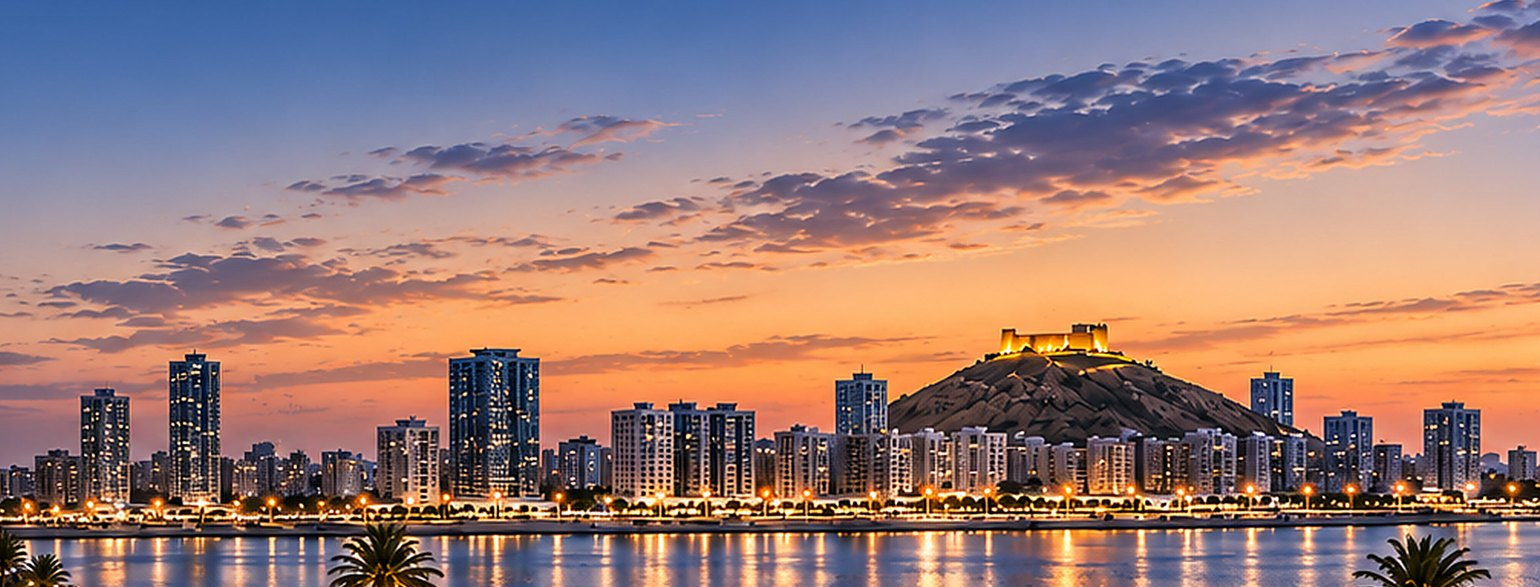
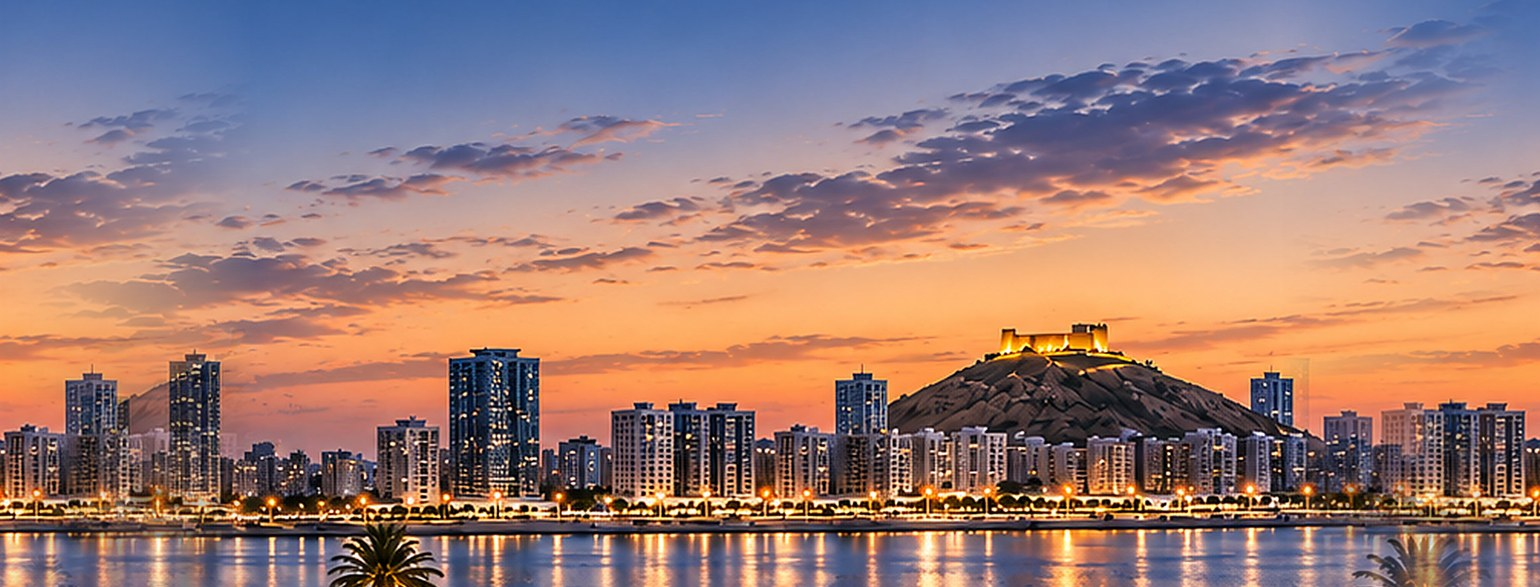
Seamless skyline, clear sliding doors, capture mode for stills and clips
Claude-Session: https://claude.ai/code/session_01M2ZtnfGCvD9i1kcrb91k9C

diff --git a/walk.js b/walk.js
@@ -206,8 +206,8 @@ function skyDome() {
   const r = rng(9); for (let k = 0; k < 4000; k++) { g.fillStyle = `rgba(255,${180 + r() * 60},${110 + r() * 70},${r() * .55})`; g.fillRect(r() * S, base + 40 + r() * (H - base - 40), 2, 2); }
   const t = new THREE.CanvasTexture(c); t.encoding = THREE.sRGBEncoding; t.wrapS = THREE.RepeatWrapping; t.anisotropy = maxAniso;
   const img = new Image(); img.onload = () => {
-    const tw = S / 6, th = tw * img.height / img.width, y0 = base + 20 - th * (520 / 587);
-    for (let i = 0; i < 6; i++) { g.save(); if (i % 2) { g.translate((i + 1) * tw, 0); g.scale(-1, 1); g.drawImage(img, 0, y0, tw, th); } else g.drawImage(img, i * tw, y0, tw, th); g.restore(); }
+    const tw = S / 4, th = tw * img.height / img.width, y0 = base + 20 - th * (520 / 587);
+    for (let i = 0; i < 4; i++) g.drawImage(img, i * tw, y0, tw, th);          // the skyline photo is made seamless left to right
     const fade = g.createLinearGradient(0, y0, 0, y0 + 70); fade.addColorStop(0, '#3f62a4'); fade.addColorStop(1, 'rgba(63,98,164,0)');
     g.fillStyle = fade; g.fillRect(0, y0, S, 70);
     const lo = g.createLinearGradient(0, y0 + th - 40, 0, y0 + th + 10); lo.addColorStop(0, 'rgba(42,36,51,0)'); lo.addColorStop(1, '#2a2433');
@@ -373,7 +373,8 @@ function buildFromPlan(k, D) {
       if (open) { const sl = piece(Math.max(0, gl - .9), gl, 0, 2.55, M.glass, .02); sl.position[alongX ? 'z' : 'x'] += .07; g.add(sl); }   // the open slider, parked behind
       const inward = alongX ? Math.sign(cy - (y0 + y1) / 2) || 1 : Math.sign(cx - (x0 + x1) / 2) || 1;
       const cw = Math.min(.36, L * .15);
-      for (const [a0, a1, mat, off] of [[0, cw, M.drape, .2], [L - cw, L, M.drape, .2], [cw, cw * 1.9, M.sheer, .13], [L - cw * 1.9, L - cw, M.sheer, .13]]) {
+      const sets = [[0, cw, M.drape, .2], [cw, cw * 1.9, M.sheer, .13]]; if (!open) sets.push([L - cw, L, M.drape, .2], [L - cw * 1.9, L - cw, M.sheer, .13]);   // keep the open door clear
+      for (const [a0, a1, mat, off] of sets) {
         const cu = piece(a0, a1, .02, SOF - .04, mat, .08); cu.position[alongX ? 'z' : 'x'] += inward * off; cu.castShadow = mat === M.drape; g.add(cu);
         const fo = Math.max(2, Math.round((a1 - a0) / .08)); for (let f = 0; f < fo; f++) { const fl = piece(a0 + (f + .15) * (a1 - a0) / fo, a0 + (f + .6) * (a1 - a0) / fo, .02, SOF - .04, mat, .13); fl.position[alongX ? 'z' : 'x'] += inward * off; fl.castShadow = false; g.add(fl); }
       }
@@ -821,5 +822,16 @@ function close() {
   if (root) root.classList.remove('open');
   document.body.style.overflow = '';
 }
-window.RHWalk = { preload: () => Promise.all([load(), loadData()]), open, close, isOpen: () => running, _debug: () => ({ scene, home, grid, P }) };
+window.RHWalk = { preload: () => Promise.all([load(), loadData()]), open, close, isOpen: () => running, _debug: () => ({ scene, home, grid, P }),
+  /* capture mode for stills and previs clips: exact camera, no interface, one frame per call */
+  _cap: o => {
+    running = false; marker.visible = false;
+    const [x, z] = o.px != null ? cur.map.toW(o.px, o.py) : [o.x, o.z];
+    if (renderer.getPixelRatio() !== 1) renderer.setPixelRatio(1);
+    renderer.setSize(o.w, o.h, false); camera.aspect = o.w / o.h; camera.fov = o.fov || 53; camera.updateProjectionMatrix();
+    camera.position.set(x, o.y || 1.45, z); camera.rotation.set(o.pitch || 0, -(o.yaw || 0) * Math.PI / 180, 0, 'YXZ');
+    renderer.render(scene, camera);
+    return canvas.toDataURL(o.fmt === 'jpg' ? 'image/jpeg' : 'image/png', .93);
+  },
+  _free: (px, py) => { const [x, z] = cur.map.toW(px, py); return !blocked(x, z); } };
 })();
